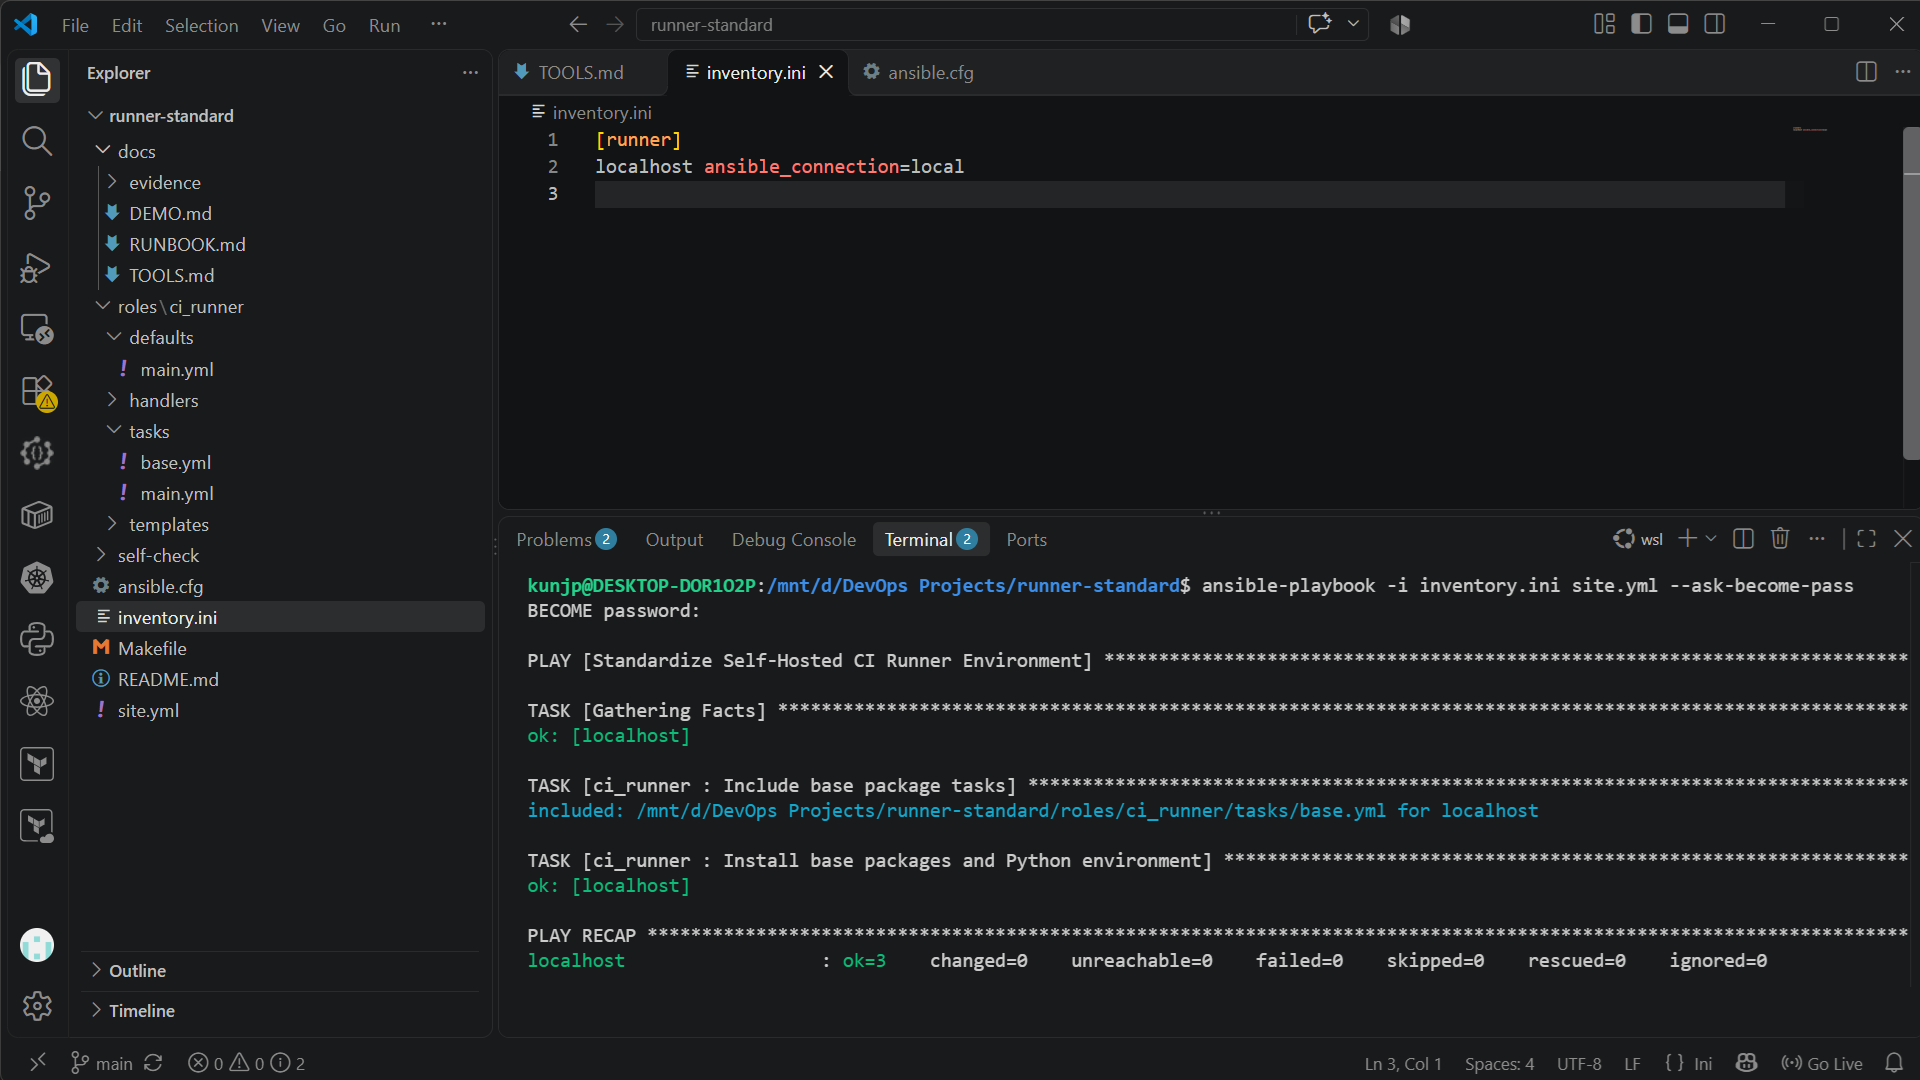
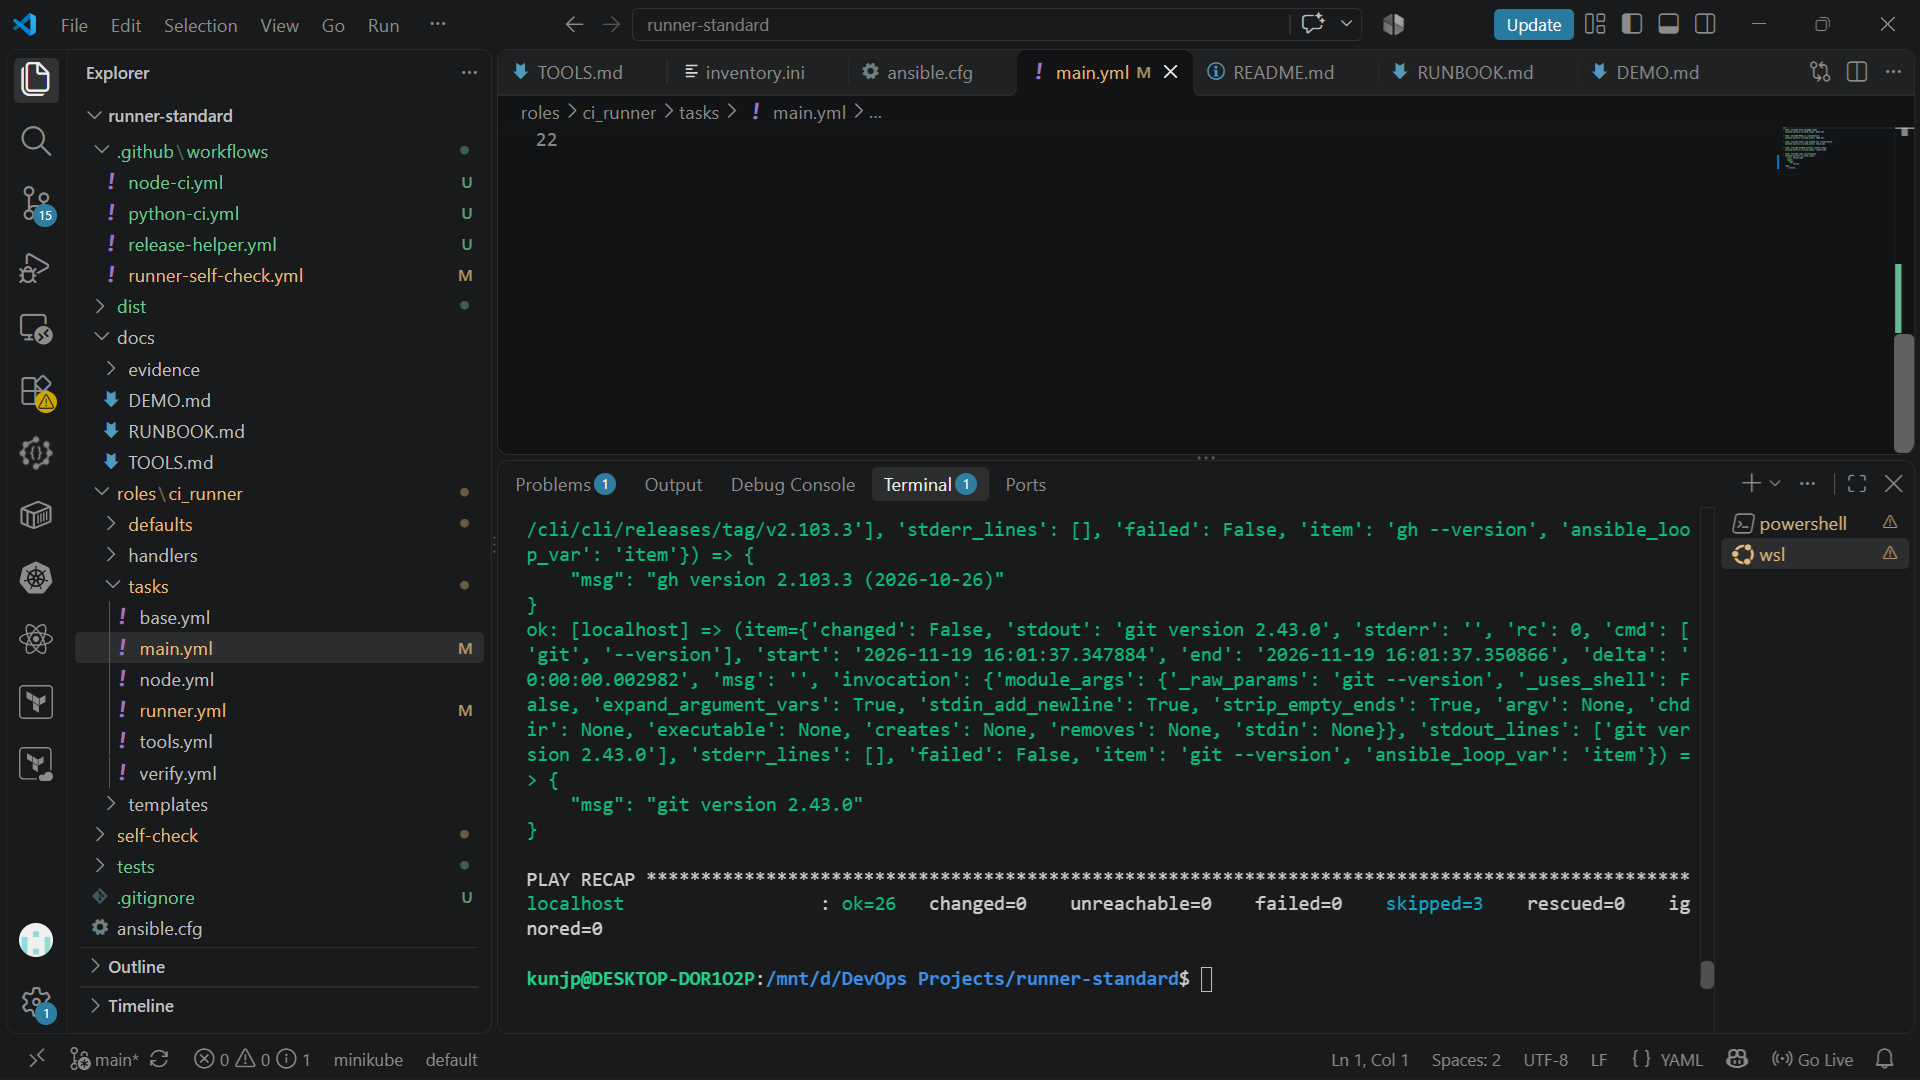
feat: register repo runner, pin versions, fix verify/provision, and add example workflows

diff --git a/dist/index.js b/dist/index.js
@@ -1,0 +1,1 @@
+console.log("ok");

diff --git a/tests/test_sample.py b/tests/test_sample.py
@@ -1,0 +1,2 @@
+def test_runner_environment():
+    assert 1 + 1 == 2
